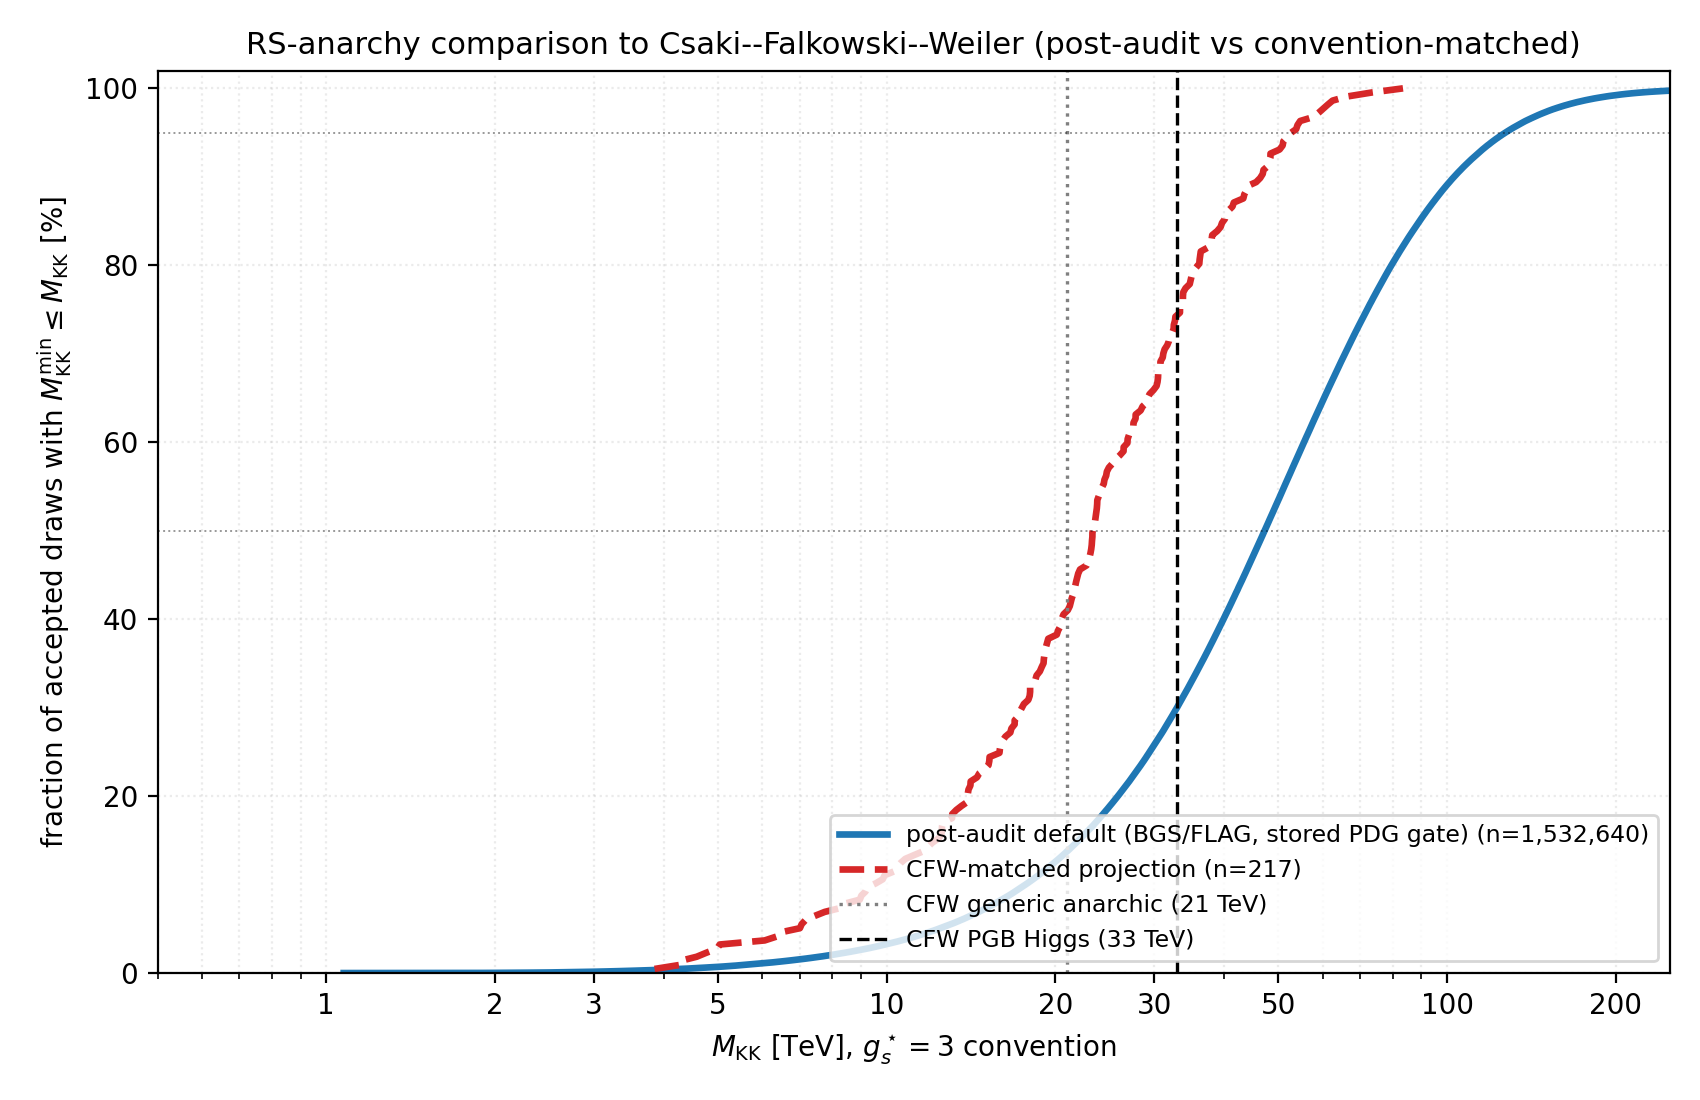
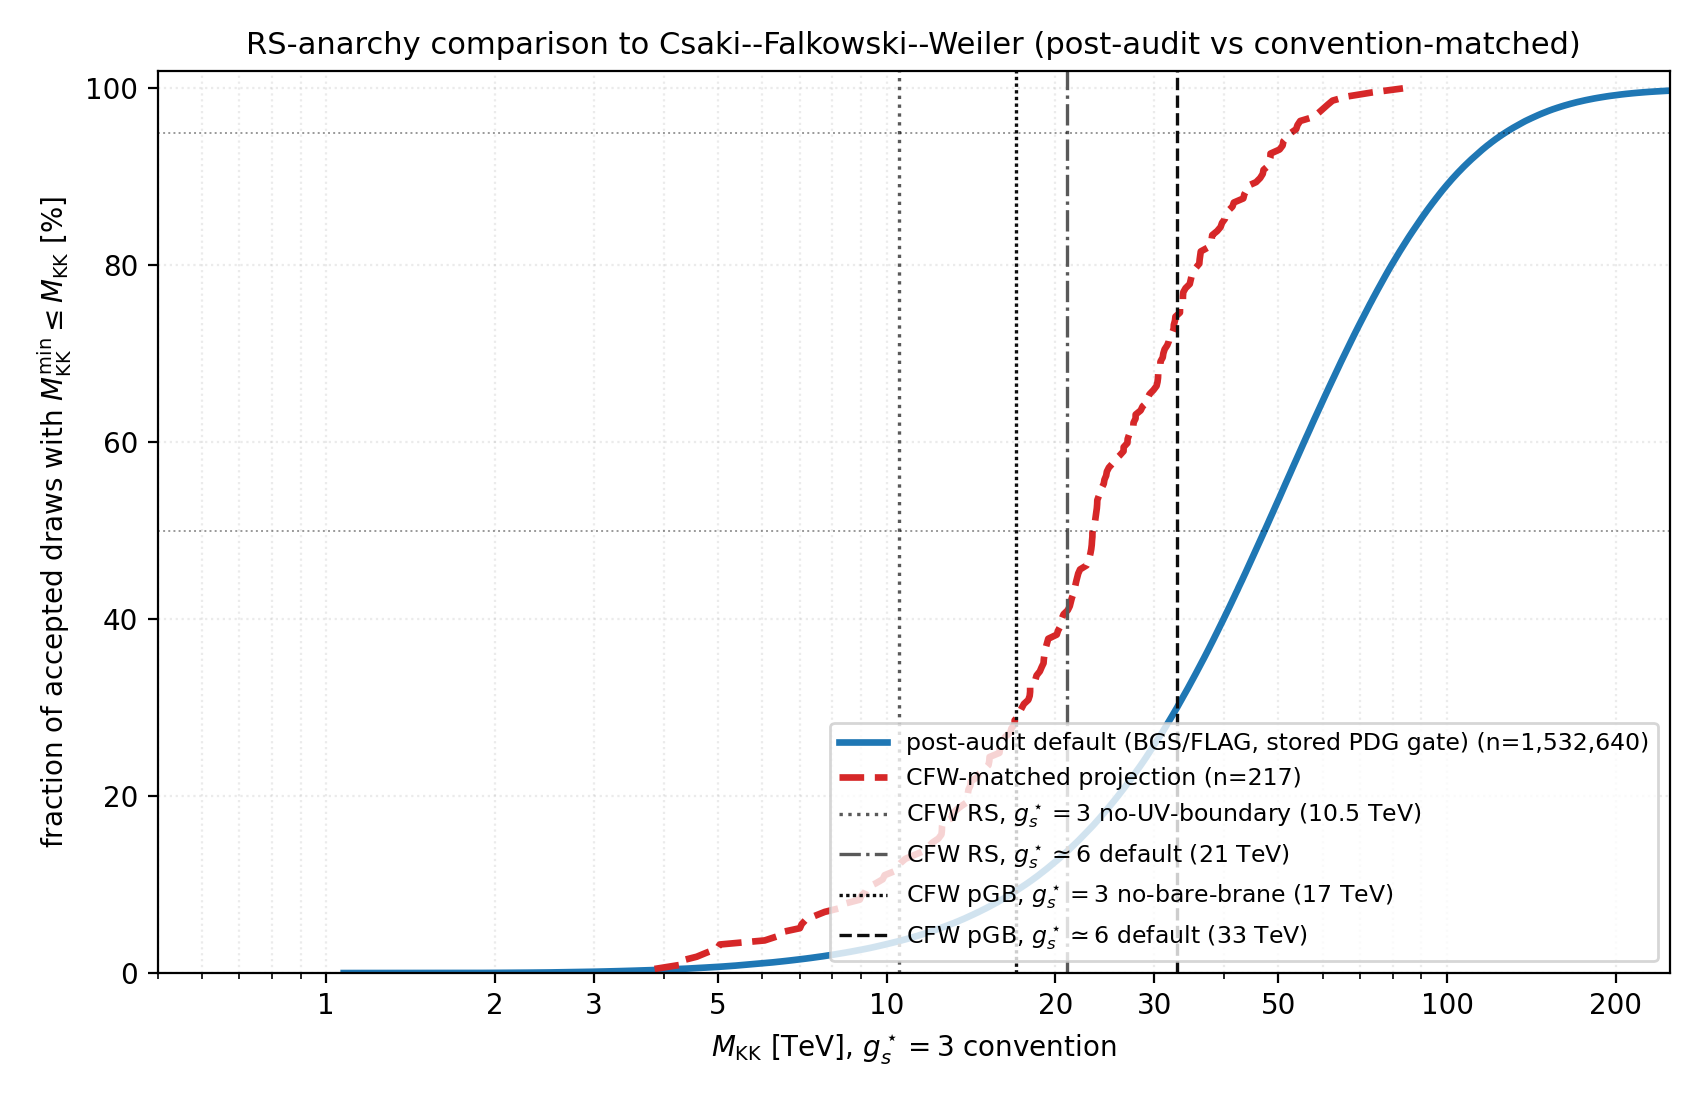
figures(cfw): show CFW markers at both g_s*=3 and g_s*~6 conventions

Changed region(s): [[0.4676, 0.6491, 0.9665, 0.8655]]

diff --git a/scripts/rs_anarchy_cfw_comparison.py b/scripts/rs_anarchy_cfw_comparison.py
@@ -36,8 +36,37 @@ MKK_TICKS = [1, 2, 3, 5, 10, 20, 30, 50, 100, 200]
 G_S_PERT = 1.05
 DEFAULT_GS_STAR = 3.0
 
-CFW_GENERIC_TEV = 21.0
-CFW_PGB_TEV = 33.0
+CFW_RS_GS3_TEV = 10.5
+CFW_RS_GS6_TEV = 21.0
+CFW_PGB_GS3_TEV = 17.0
+CFW_PGB_GS6_TEV = 33.0
+
+CFW_MARKERS = (
+    (
+        CFW_RS_GS3_TEV,
+        "0.35",
+        ":",
+        fr"CFW RS, $g_s^\star=3$ no-UV-boundary ({CFW_RS_GS3_TEV:g} TeV)",
+    ),
+    (
+        CFW_RS_GS6_TEV,
+        "0.35",
+        "-.",
+        fr"CFW RS, $g_s^\star\simeq6$ default ({CFW_RS_GS6_TEV:g} TeV)",
+    ),
+    (
+        CFW_PGB_GS3_TEV,
+        "0.05",
+        (0, (1, 1)),
+        fr"CFW pGB, $g_s^\star=3$ no-bare-brane ({CFW_PGB_GS3_TEV:g} TeV)",
+    ),
+    (
+        CFW_PGB_GS6_TEV,
+        "0.05",
+        "--",
+        fr"CFW pGB, $g_s^\star\simeq6$ default ({CFW_PGB_GS6_TEV:g} TeV)",
+    ),
+)
 
 EPSILON_K_EXP = 2.228e-3
 EPSILON_K_SM_DEFAULT = 2.161e-3
@@ -386,11 +415,15 @@ def main():
                 label=f"{curve.label} (n={arr_plot.size:,})",
             )
 
-        # CFW abstract benchmarks
-        ax.axvline(CFW_GENERIC_TEV, color="grey", linewidth=1.2, linestyle=":",
-                   label=fr"CFW generic anarchic ({CFW_GENERIC_TEV:.0f} TeV)")
-        ax.axvline(CFW_PGB_TEV, color="black", linewidth=1.2, linestyle="--",
-                   label=fr"CFW PGB Higgs ({CFW_PGB_TEV:.0f} TeV)")
+        # CFW benchmarks under both color-coupling conventions.
+        for marker, color, linestyle, label in CFW_MARKERS:
+            ax.axvline(
+                marker,
+                color=color,
+                linewidth=1.2,
+                linestyle=linestyle,
+                label=label,
+            )
 
         ax.axhline(50.0, color="k", linewidth=0.7, alpha=0.4, linestyle=":")
         ax.axhline(95.0, color="k", linewidth=0.7, alpha=0.4, linestyle=":")